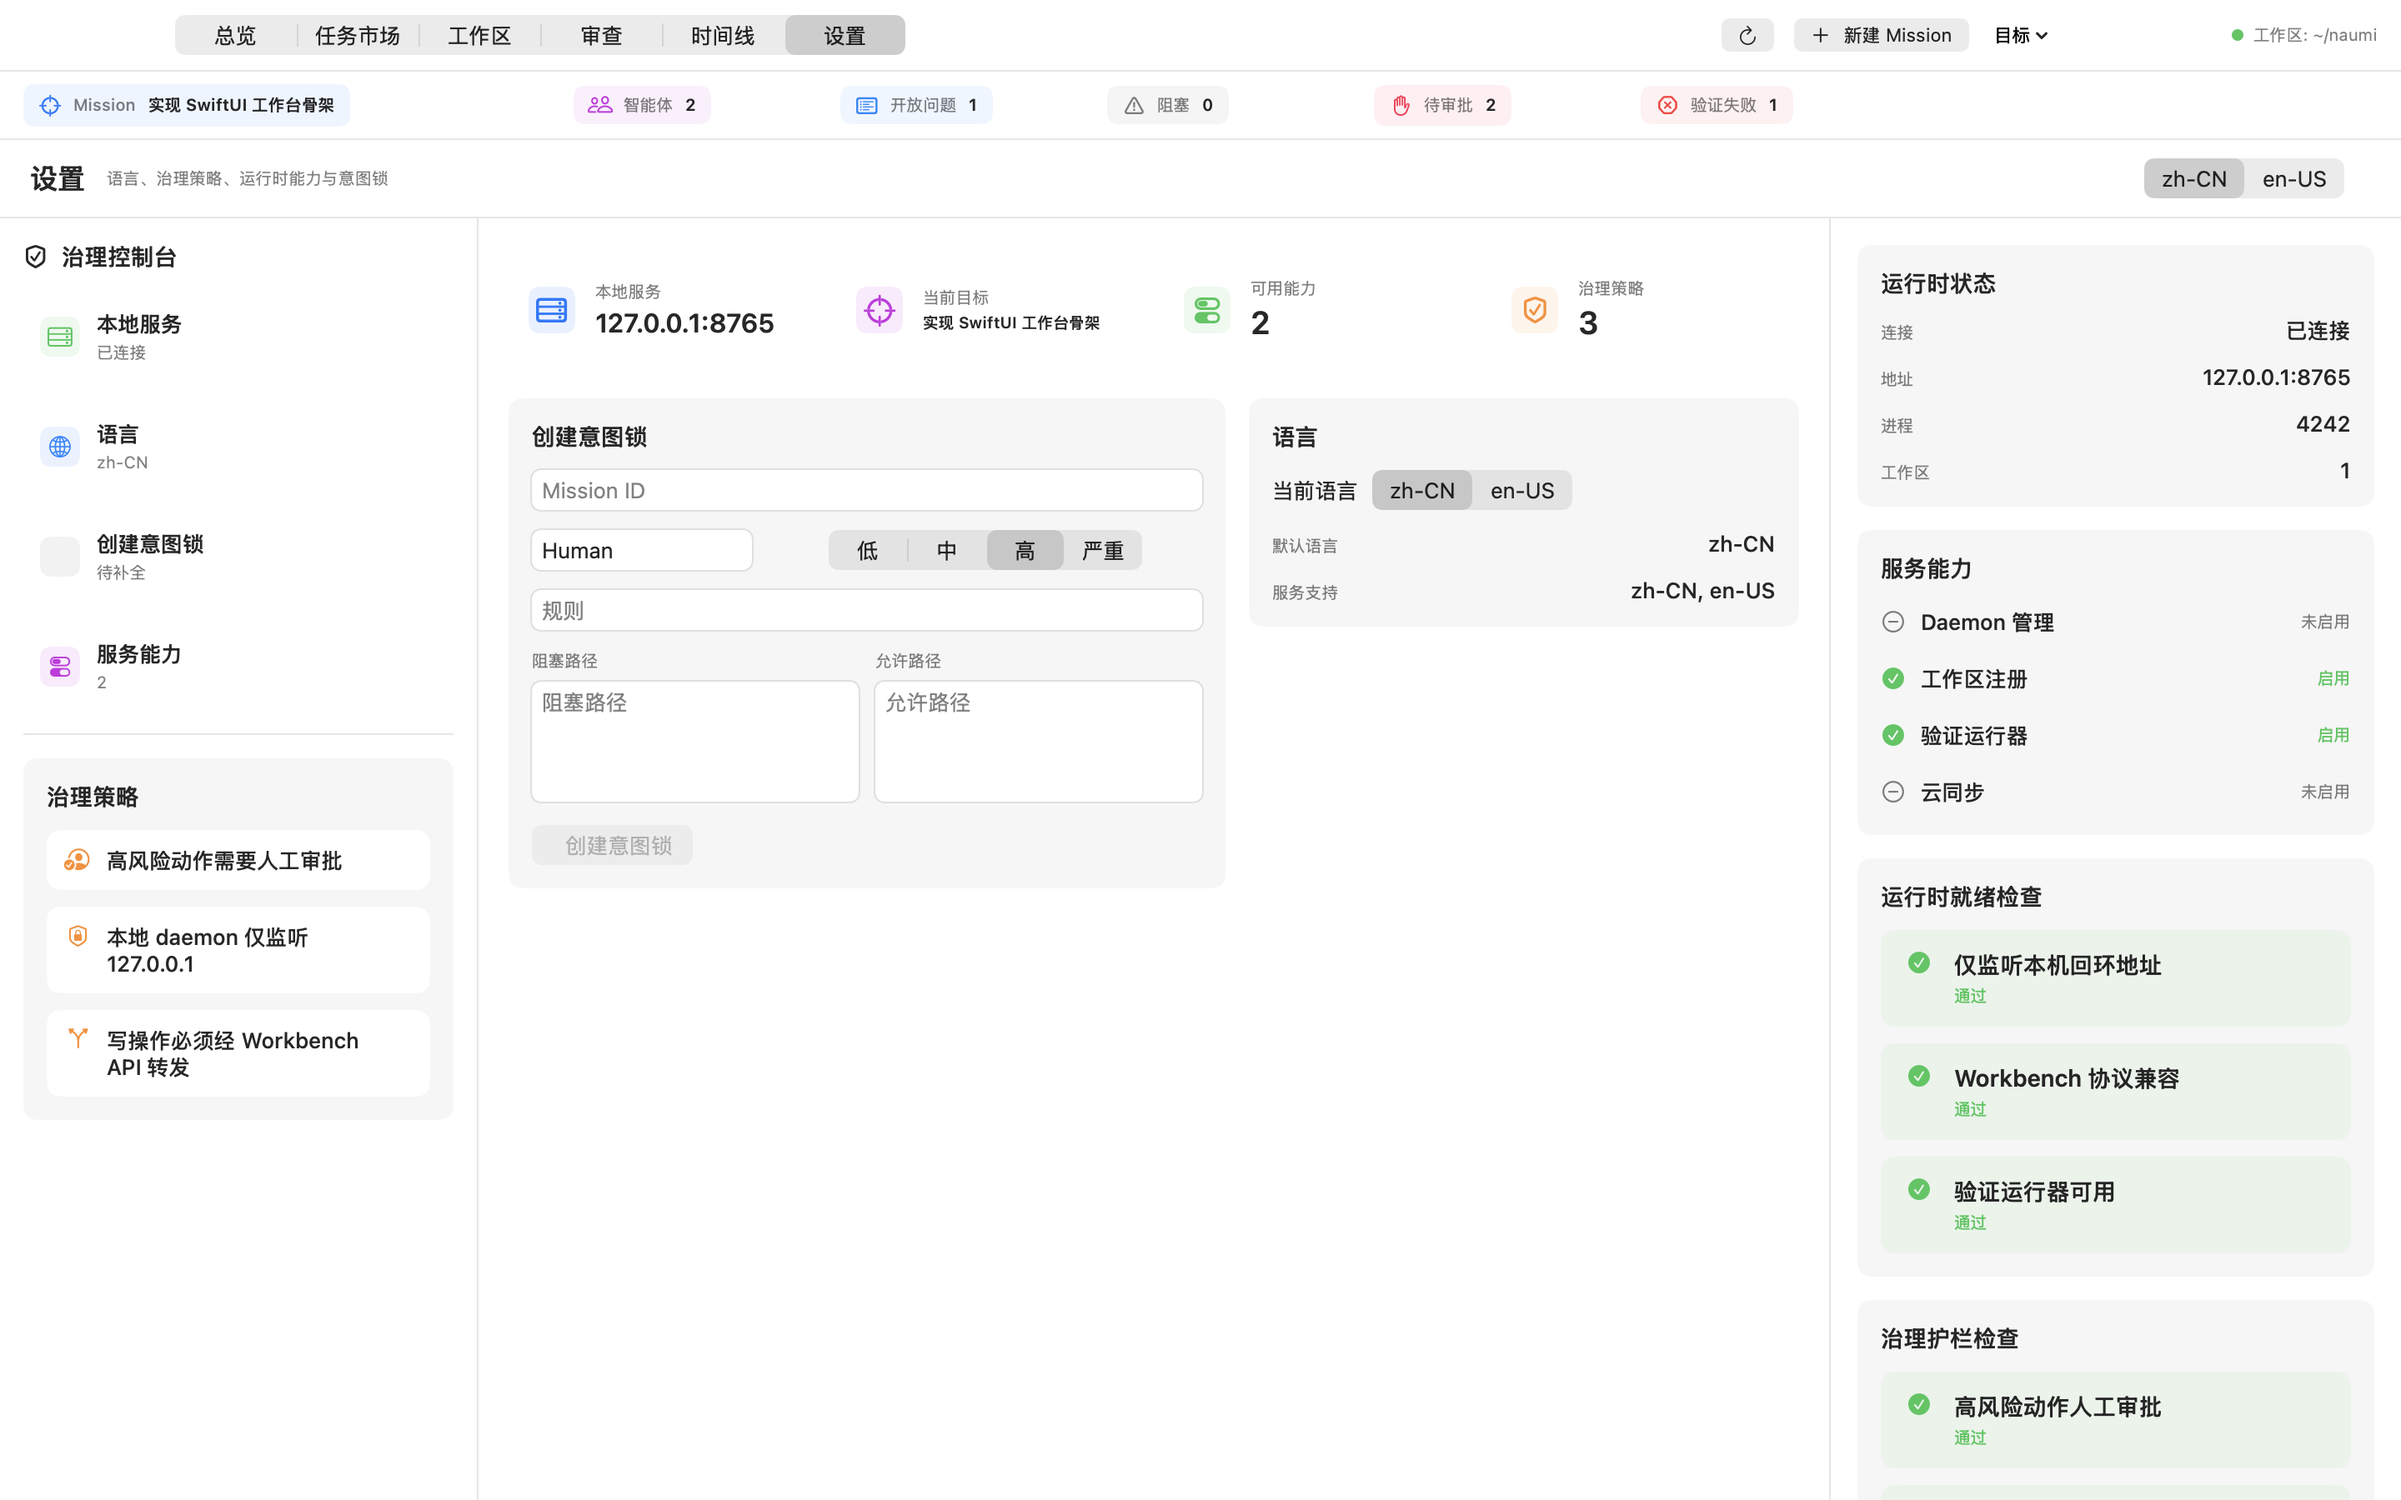
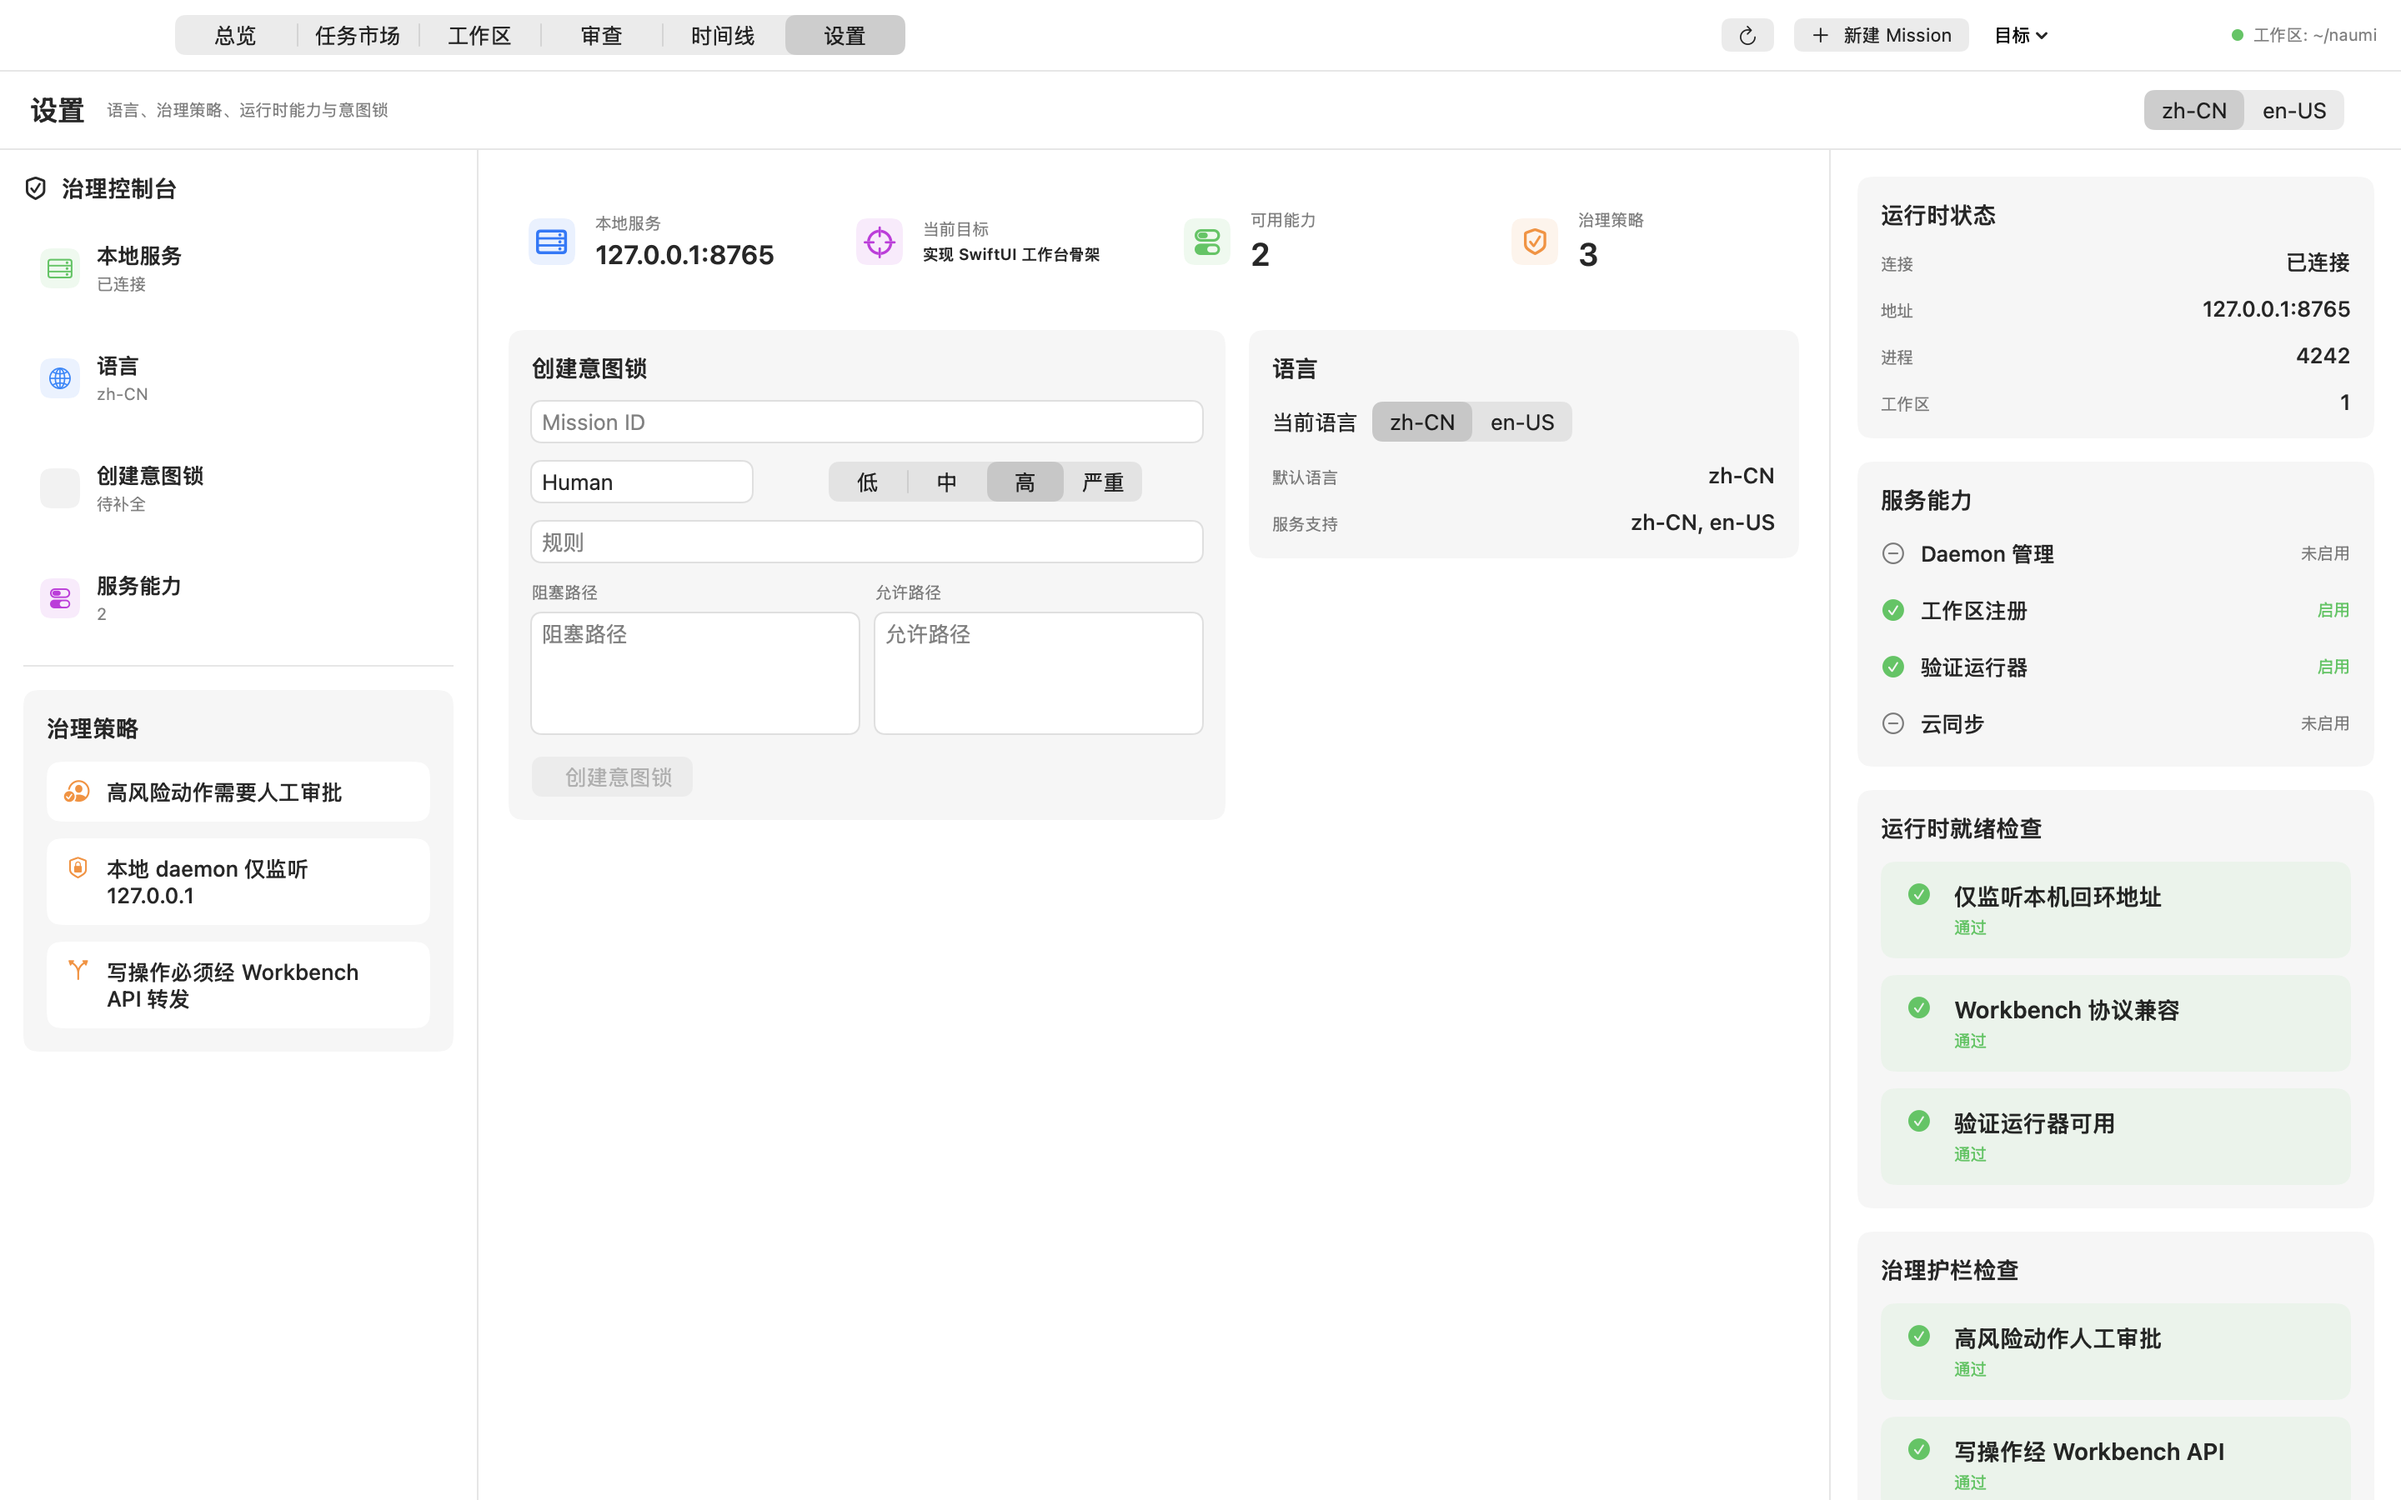
fix: keep mac workbench columns visible

diff --git a/apps/macos/NaumiAgentWorkbench/Sources/NaumiAgentWorkbenchCore/Features/Dashboard/DashboardView.swift b/apps/macos/NaumiAgentWorkbench/Sources/NaumiAgentWorkbenchCore/Features/Dashboard/DashboardView.swift
@@ -376,7 +376,7 @@ public struct DashboardView: View {
                 dottedCanvasBackground
                 canvasConnectors
 
-                VStack(spacing: 18) {
+                VStack(spacing: 12) {
                     HStack {
                         Spacer()
                         if let mission = presentation.workbench.canvasNodes.first(where: { $0.kind == .mission }) {
@@ -386,7 +386,7 @@ public struct DashboardView: View {
                         Spacer()
                     }
 
-                    HStack(alignment: .center, spacing: 16) {
+                    HStack(alignment: .center, spacing: 14) {
                         VStack(alignment: .leading, spacing: 10) {
                             Text("ISSUES")
                                 .font(.caption)
@@ -398,7 +398,7 @@ public struct DashboardView: View {
                         }
                         .frame(width: 220)
 
-                        VStack(spacing: 14) {
+                        VStack(spacing: 8) {
                             ForEach(presentation.workbench.canvasNodes.filter { $0.kind == .agents }, id: \.id) { node in
                                 canvasNodeView(node: node)
                             }
@@ -408,7 +408,7 @@ public struct DashboardView: View {
                         }
                         .frame(width: 160)
 
-                        VStack(spacing: 14) {
+                        VStack(spacing: 8) {
                             ForEach(presentation.workbench.canvasNodes.filter { $0.kind == .worktrees || $0.kind == .validation || $0.kind == .failure || $0.kind == .approval }, id: \.id) { node in
                                 canvasNodeView(node: node)
                             }
@@ -416,7 +416,7 @@ public struct DashboardView: View {
                         .frame(width: 240)
                     }
                 }
-                .padding(24)
+                .padding(16)
             }
             .frame(maxWidth: .infinity, maxHeight: .infinity)
             .background(Color(nsColor: .textBackgroundColor))
@@ -455,7 +455,7 @@ public struct DashboardView: View {
                 .font(.caption2)
                 .foregroundStyle(.secondary)
         }
-        .padding(10)
+        .padding(8)
         .background(Color(nsColor: .windowBackgroundColor))
         .overlay(
             RoundedRectangle(cornerRadius: 7)
@@ -481,7 +481,7 @@ public struct DashboardView: View {
                 .fill(title.contains("Backend") ? .blue : .green)
                 .frame(width: 7, height: 7)
         }
-        .padding(9)
+        .padding(8)
         .background(Color(nsColor: .windowBackgroundColor))
         .overlay(
             RoundedRectangle(cornerRadius: 7)
@@ -523,7 +523,7 @@ public struct DashboardView: View {
     }
 
     private func canvasNodeView(node: DashboardCanvasNode) -> some View {
-        VStack(alignment: .leading, spacing: 10) {
+        VStack(alignment: .leading, spacing: 6) {
             HStack(spacing: 8) {
                 Image(systemName: iconName(for: node.kind))
                     .font(.system(size: 15, weight: .semibold))
@@ -537,9 +537,9 @@ public struct DashboardView: View {
             }
 
             Text(node.title)
-                .font(.system(size: 13, weight: .semibold))
+                .font(.system(size: 12, weight: .semibold))
                 .lineLimit(2)
-                .frame(minHeight: 34, alignment: .topLeading)
+                .frame(minHeight: 22, alignment: .topLeading)
 
             HStack {
                 Text(subtitle(for: node))
@@ -553,8 +553,8 @@ public struct DashboardView: View {
                     .lineLimit(1)
             }
         }
-        .padding(12)
-        .frame(height: 126)
+        .padding(9)
+        .frame(height: 88)
         .background(Color(nsColor: .windowBackgroundColor))
         .overlay(
             RoundedRectangle(cornerRadius: 8)

diff --git a/apps/macos/NaumiAgentWorkbench/Tests/NaumiAgentWorkbenchCoreTests/WorkbenchPageLayoutTests.swift b/apps/macos/NaumiAgentWorkbench/Tests/NaumiAgentWorkbenchCoreTests/WorkbenchPageLayoutTests.swift
@@ -22,17 +22,19 @@ struct WorkbenchPageLayoutTests {
         #expect(size.height < layout.baseHeight)
     }
 
-    @Test func scaledLayoutKeepsThreeColumnsStableWhenHeightChanges() {
+    @Test func scaledLayoutFitsBothWidthAndHeightSoColumnsRemainVisible() {
         let layout = WorkbenchScaledPageLayout.dashboard
 
-        let normalHeight = layout.scaledSize(for: CGSize(width: 1360, height: 900))
-        let shortHeight = layout.scaledSize(for: CGSize(width: 1360, height: 620))
+        let native = layout.scaledSize(for: CGSize(width: 1360, height: 720))
+        let wideButShort = layout.scaledSize(for: CGSize(width: 2048, height: 1048))
         let narrow = layout.scaledSize(for: CGSize(width: 900, height: 620))
 
-        #expect(abs(normalHeight.width - layout.baseWidth) < 0.001)
-        #expect(abs(shortHeight.width - layout.baseWidth) < 0.001)
-        #expect(abs(shortHeight.height - normalHeight.height) < 0.001)
+        #expect(abs(native.width - layout.baseWidth) < 0.001)
+        #expect(abs(native.height - layout.baseHeight) < 0.001)
+        #expect(wideButShort.width <= 2048)
+        #expect(wideButShort.height <= 1048)
+        #expect(wideButShort.width < 2048)
         #expect(narrow.width <= 900)
-        #expect(abs(narrow.height - layout.baseHeight * layout.scale(for: 900)) < 0.001)
+        #expect(narrow.height <= 620)
     }
 }

diff --git a/apps/macos/NaumiAgentWorkbench/Sources/NaumiAgentWorkbenchCore/App/WorkbenchPageLayout.swift b/apps/macos/NaumiAgentWorkbench/Sources/NaumiAgentWorkbenchCore/App/WorkbenchPageLayout.swift
@@ -47,7 +47,10 @@ public struct WorkbenchScaledPageLayout: Equatable, Sendable {
     }
 
     public func scale(for availableSize: CGSize) -> Double {
-        scale(for: availableSize.width)
+        guard baseWidth > 0, baseHeight > 0 else { return 1 }
+        let widthScale = availableSize.width / baseWidth
+        let heightScale = availableSize.height / baseHeight
+        return max(0.1, min(widthScale, heightScale))
     }
 
     public func scaledSize(for availableWidth: Double) -> CGSize {
